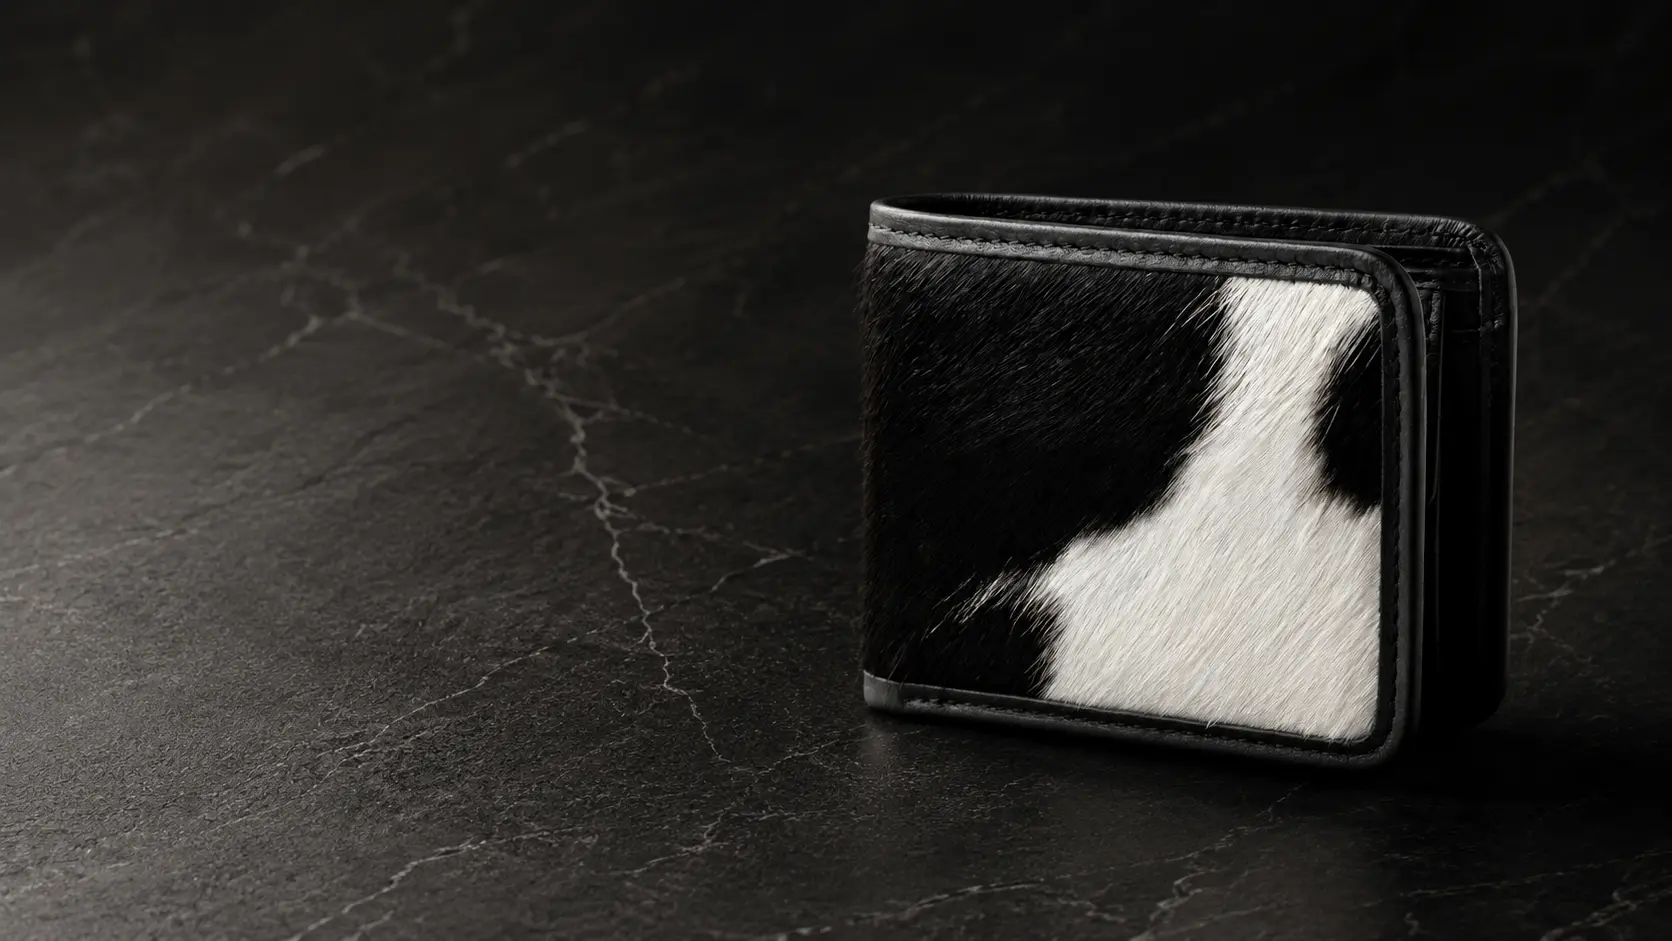
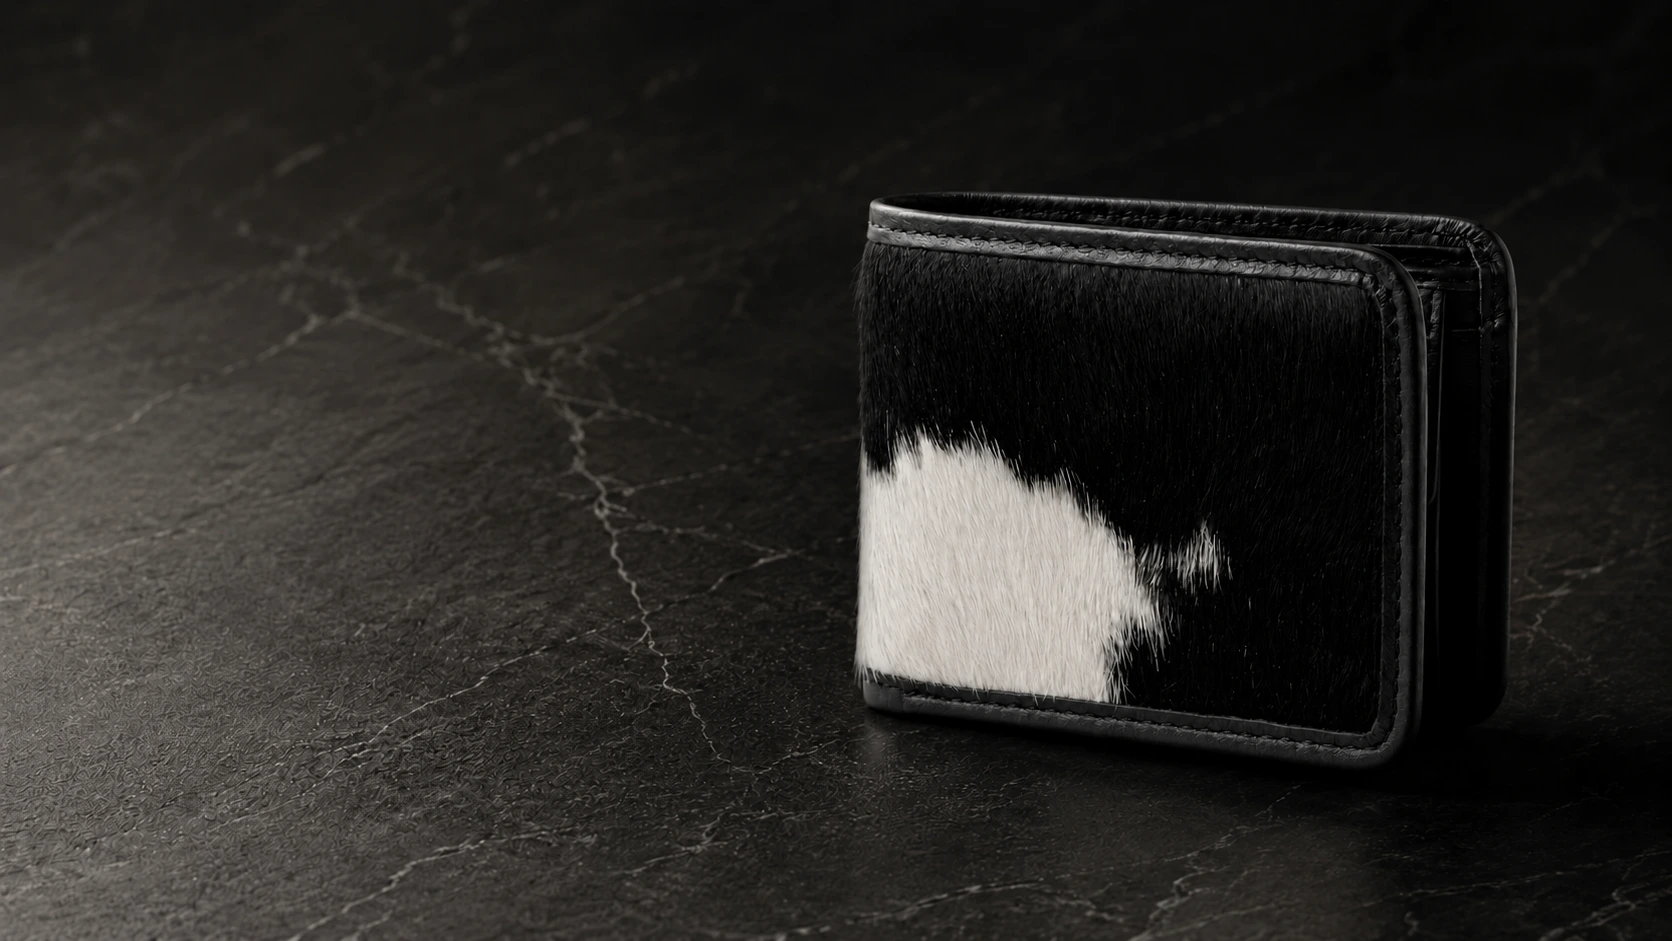
change photo

diff --git a/app/page.tsx b/app/page.tsx
@@ -97,7 +97,7 @@ function Hero() {
               href="#request"
               className="inline-flex items-center justify-center rounded-full bg-white px-8 py-4 text-xs uppercase tracking-[0.28em] text-black transition hover:bg-white/85"
             >
-              Request access
+              Join the waitlist
             </a>
 
             <a
@@ -545,7 +545,7 @@ function Hero() {
       <div className="mx-auto grid max-w-7xl items-center gap-12 md:grid-cols-[0.9fr_1.1fr] md:gap-20">
         <div>
          <p className="mb-4 text-xs uppercase tracking-[0.24em] text-black/45">
-  First Edition access
+  Join for early access before public release.
 </p>
 
 <h2 className="text-4xl font-light tracking-[-0.04em] md:text-6xl">
@@ -708,7 +708,7 @@ function Hero() {
     {
       question: "When will SAVI First Edition be available?",
       answer:
-        "First Edition access will be offered to the waitlist before public release. Production will begin after the preorder window opens.",
+        "First Edition production will be prepared in limited quantities after demand is confirmed through the waitlist and preorder window.",
     },
     {
       question: "What is the expected price?",